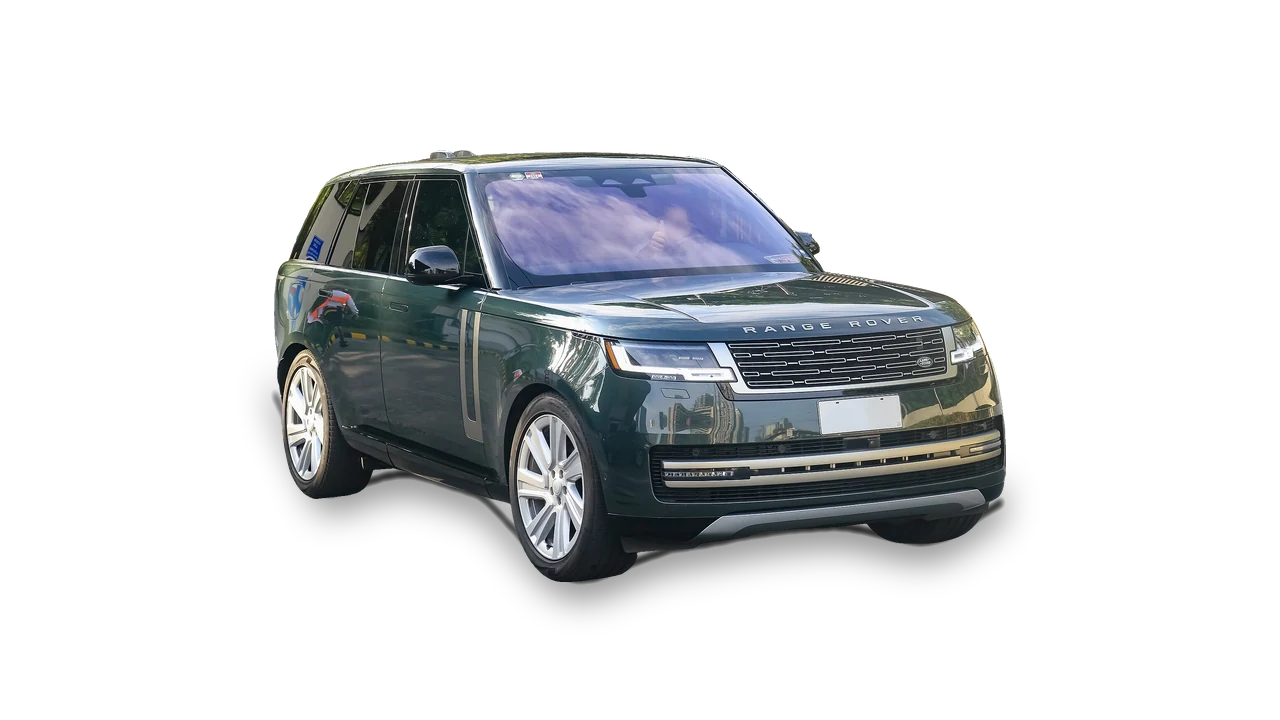
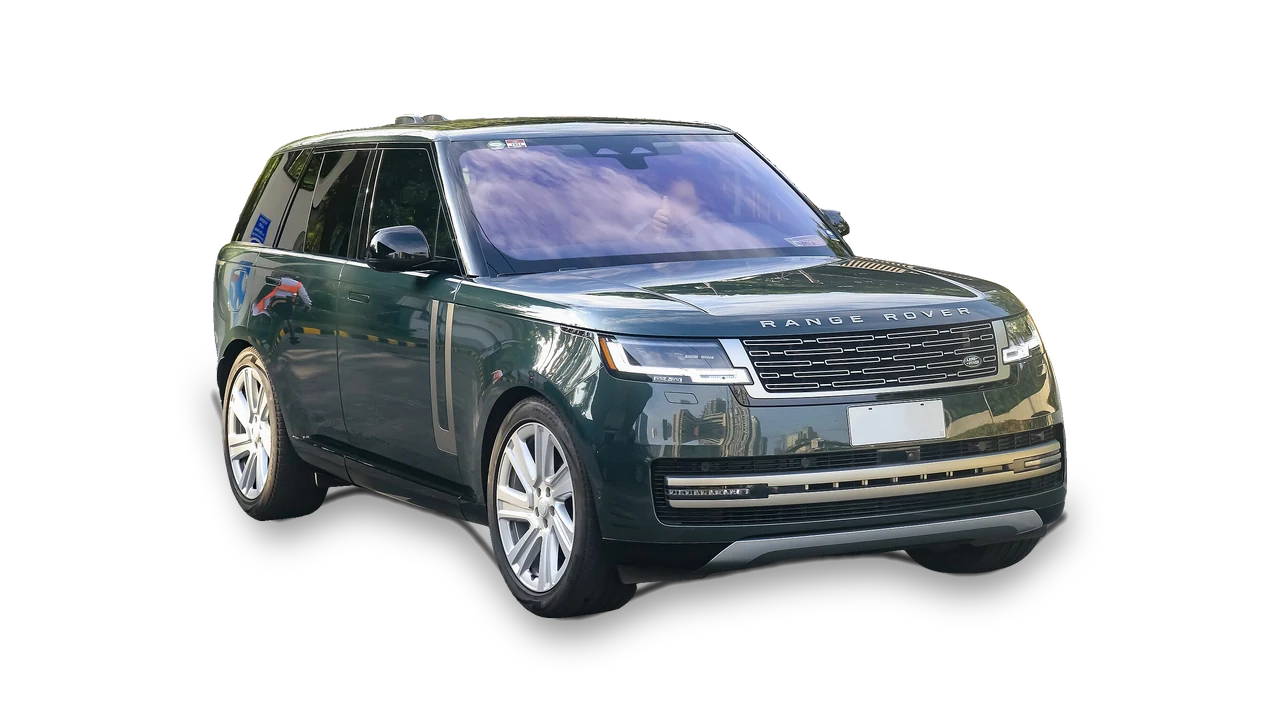
Repõe o tamanho anterior das fotos dos carros (80% da largura)
Reverte 20769e5: o Flavio queria mais pequena só a foto dos carros de casamento.

Claude-Session: https://claude.ai/code/session_018qbjZHkm8eoEPFpeFo12Mg

Changed region(s): [[0.1562, 0.1528, 0.8438, 0.9167]]

diff --git a/assets/carros/CREDITOS.md b/assets/carros/CREDITOS.md
@@ -1,6 +1,6 @@
 # Créditos das fotos dos carros
 
-Todas as fotos vêm do Wikimedia Commons. Foram alteradas: o fundo foi removido (só fica o carro, em WebP transparente), com uma sombra de contacto por baixo das rodas, e todas têm o mesmo enquadramento em 16:9 (1280 × 720), com o carro a 70% da largura.
+Todas as fotos vêm do Wikimedia Commons. Foram alteradas: o fundo foi removido (só fica o carro, em WebP transparente), com uma sombra de contacto por baixo das rodas, e todas têm o mesmo enquadramento em 16:9 (1280 × 720), com o carro a 80% da largura.
 As licenças CC BY e CC BY-SA exigem o nome do autor e a licença junto da foto; a app mostra-os por baixo do carro.
 
 | Ficheiro | Modelo | Autor | Licença | Original |
